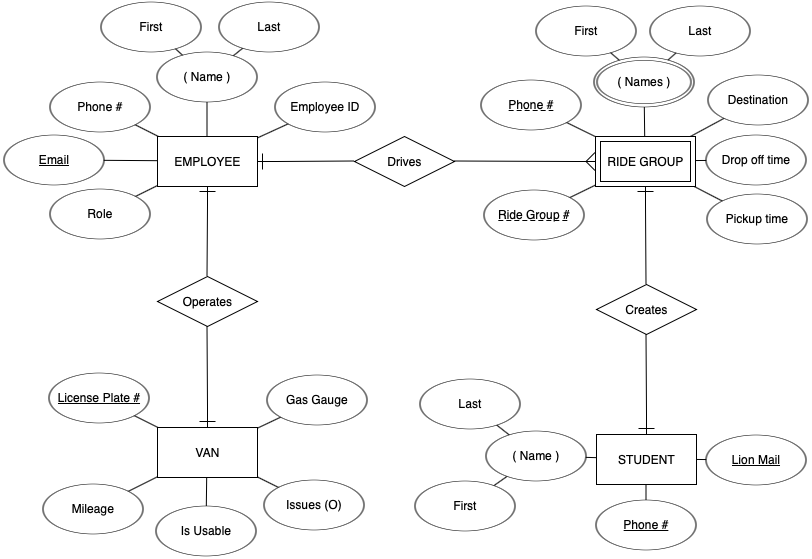
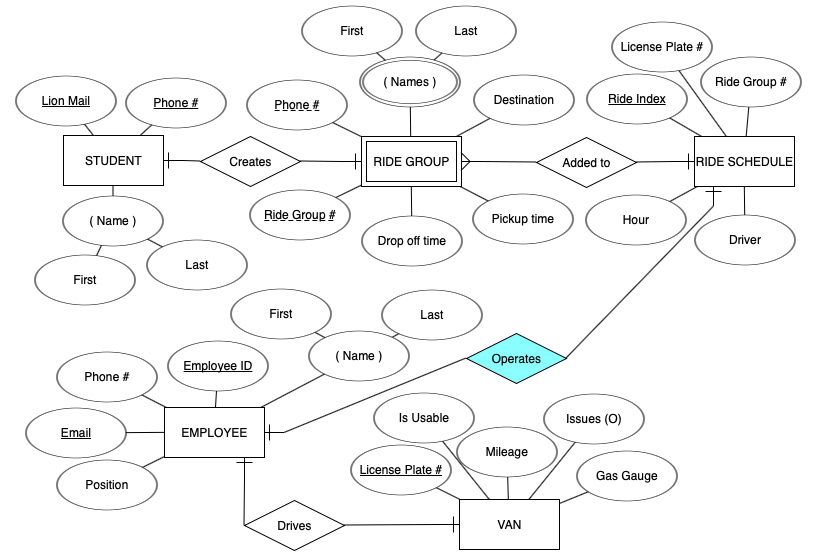
Updated values, ERD, and added example querries

diff --git a/DetailedDatabaseDesign.md b/DetailedDatabaseDesign.md
@@ -35,39 +35,64 @@ The data available for each user to interact with, based on their role.
 Final tables/columns with descriptions for each.
 
 #### 1.4.1 LMU Student: LMU students signed up for a reservation on the Lion Express.
-* Phone Number (int): Phone number given by LMU student.
+* Phone Number (text): Phone number given by LMU student.
 * Lion Mail (text): School email of LMU student.
-* Name: First and Last name (text)
+* Name: First name (text), Last name (text)
 
 #### 1.4.2 Employee: Current workers at the Lion Express.
-* Employee ID (int): ID given to employee.
-* Name: First name, Last name (text)
-* Phone number (int): Phone number registered to employee.
+* Employee ID (text): ID given to employee.
+* Name: First name (text), Last name (text)
+* Phone number (text): Phone number registered to employee.
 * Email (text): Email registered to employee
-* Role: Dispatcher, Driver, Supervisor, Manager (text): Position at Lion Express.
+* Position: Dispatcher, Driver, Supervisor, Manager (text): Position at Lion Express.
 
 #### 1.4.3 Van: The van the Lion Express employee will be driving for any given trip.
 * License Plate Number (text): License plate number of van.
 * Mileage (int): Number of miles on van.
 * Gas level (float): Gas level between zero and one. Zero being empty and one being full.
+* Van Usable (boolean): Is this van available/operational for drivers?
 * Issues (text): Any issues the van may have such as: tire pressure low, weak breaks, etc..
 
 #### 1.4.4 Ride Group: The group of students riding in any given trip.
 * Ride Group Number (int): Unique number identifier for any given group of students riding together.
-* Student (text): Student who made a reservation for the Lion Express.
-* Rider_1 (text): Potential rider in group.
-* Rider_2 (text): Potential rider in group.
-* Rider_3 (text): Potential rider in group.
-* Rider_4 (text): Potential rider in group.
-* Rider_5 (text): Potential rider in group.
-* Rider_6 (text): Potential rider in group.
+* Student (name): Student who made a reservation for the Lion Express.
+* Rider_1 (name): Potential rider in group.
+* Rider_2 (name): Potential rider in group.
+* Rider_3 (name): Potential rider in group.
+* Rider_4 (name): Potential rider in group.
+* Rider_5 (name): Potential rider in group.
+* Rider_6 (name): Potential rider in group.
 * Destination (text): Final destination where Lion Express will drop of ride group.
 * Pick up (text): Pick up time.
 * Drop off (text): Drop off time.
 
 #### 1.4.5 Ride Schedule: Schedule of rides throughout the day.
-* Hour (text): Any given hour of the day.
-* Ride Group Number(s) (int): Number of ride groups riding during a given hour.
+* Ride Index (text): Unique index for every hour of operation.
+* Hour (int): Any given hour of the day, starting .
+* Ride Group Number (int): Ride group traveling during a given hour.
+* Van In Use (text): License plate of the van being driven at each hour.
+* Driver (name): Name of the employee driving at the hour specified.
 
 ## 1.5 Entity-Relationship Diagram
 ![Lion Express ERD](https://raw.githubusercontent.com/BenProtusSmith/csmi-486/master/LionExpressERD.png)
+
+## Example Database Queries
+#### What are the different positions at the Lion Express?
+
+`SELECT DISTINCT "position" FROM employees;`
+
+#### Who is driving from 7pm to 7:59pm?
+
+`SELECT driver FROM ride_schedule WHERE hour =7;`
+
+#### Which vans are available to use at 5pm with no issues?
+
+`SELECT license_plate FROM van WHERE in_use = FALSE AND issues = 'None’;`
+
+#### Which van(s) have no issues and the most gas such that we can use it for most of the day?
+
+`SELECT license_plate FROM van WHERE gas_level = (SELECT MAX(gas_level) FROM van WHERE issues = 'None’);`
+
+#### Need send email to all students at 8pm that rides are cancelled. What are their emails?
+
+`SELECT lion_mail FROM students WHERE name = (SELECT student FROM ride_group  WHERE pick_up = 8 OR drop_off = 8);`
